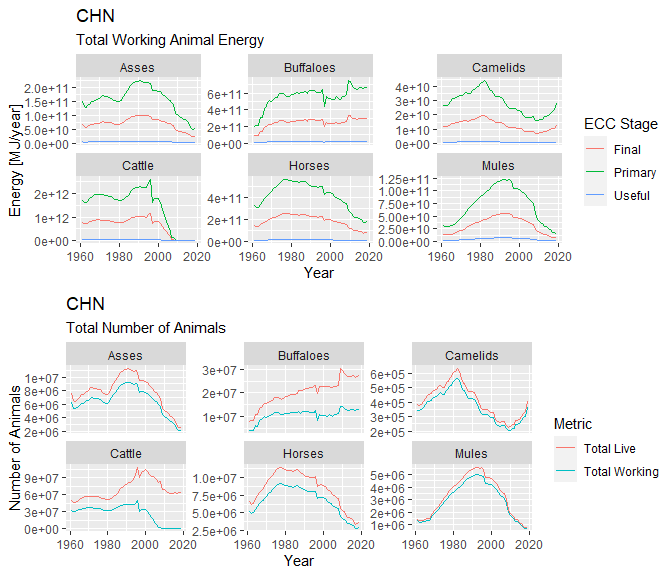
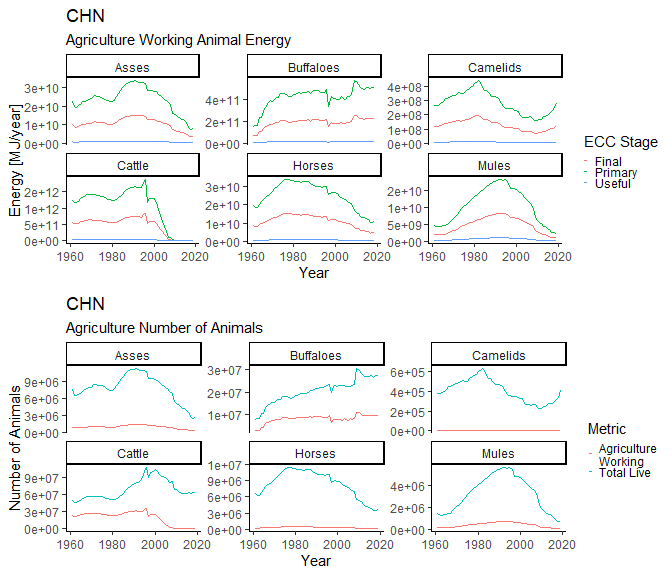
adjusting amw summary pot legend

diff --git a/README.md b/README.md
@@ -76,7 +76,7 @@ animal muscle work data for a particular country and sector.
 plot_amw_summary(amw_pfu_df = amw_pfu_df,
                  amw_numbers_df = amw_numbers_df,
                  country = "CHN",
-                 sector = "Total")
+                 sector = "Agriculture")
 ```
 
 <img src="man/figures/README-example_plot-1.png" width="100%" />
@@ -88,21 +88,21 @@ International Labor Organisation (ILO), via the `R` package `Rilostat`.
 The `MWTools` package provides a wrapper function for
 `Rilostat::get_ilostat` which returns a tidy data frame containing the
 number of employed persons by sector and sex, and the mean yearly
-working hours by sector and sex…
+working hours by sector and sex…..
 
 ``` r
 hmw_hours <- get_ilo_hmw_data()
-#> Table HOW_TEMP_SEX_ECO_NB_A cached at C:\Users\earzm\AppData\Local\Temp\RtmpGeB7Lj/ilostat/indicator-HOW_TEMP_SEX_ECO_NB_A-code-raw-20210418T0651.rds
-#> Table EMP_TEMP_SEX_ECO_NB_A cached at C:\Users\earzm\AppData\Local\Temp\RtmpGeB7Lj/ilostat/indicator-EMP_TEMP_SEX_ECO_NB_A-code-raw-20210418T0637.rds
+#> Table HOW_TEMP_SEX_ECO_NB_A cached at C:\Users\earzm\AppData\Local\Temp\Rtmp8ILib4/ilostat/indicator-HOW_TEMP_SEX_ECO_NB_A-code-raw-20210418T0651.rds
+#> Table EMP_TEMP_SEX_ECO_NB_A cached at C:\Users\earzm\AppData\Local\Temp\Rtmp8ILib4/ilostat/indicator-EMP_TEMP_SEX_ECO_NB_A-code-raw-20210418T0637.rds
 
 head(hmw_hours)
 #> # A tibble: 6 x 6
-#>   Country.code Sex    Sector           Year  `Employed.person~ `Working.hours [~
-#>   <chr>        <chr>  <chr>            <chr>             <dbl>             <dbl>
-#> 1 ABW          Sex: ~ Economic activi~ 1994              35940                NA
-#> 2 ABW          Sex: ~ Economic activi~ 1994                 30                NA
-#> 3 ABW          Sex: ~ Economic activi~ 1994                 10                NA
-#> 4 ABW          Sex: ~ Economic activi~ 1994                 30                NA
-#> 5 ABW          Sex: ~ Economic activi~ 1994               2170                NA
-#> 6 ABW          Sex: ~ Economic activi~ 1994                580                NA
+#>   Country.code Sex    Sector          Year  `Employed.persons~ `Working.hours [~
+#>   <chr>        <chr>  <chr>           <chr>              <dbl>             <dbl>
+#> 1 ABW          Sex: ~ Economic activ~ 1994               35940                NA
+#> 2 ABW          Sex: ~ Economic activ~ 1994                  30                NA
+#> 3 ABW          Sex: ~ Economic activ~ 1994                  10                NA
+#> 4 ABW          Sex: ~ Economic activ~ 1994                  30                NA
+#> 5 ABW          Sex: ~ Economic activ~ 1994                2170                NA
+#> 6 ABW          Sex: ~ Economic activ~ 1994                 580                NA
 ```
